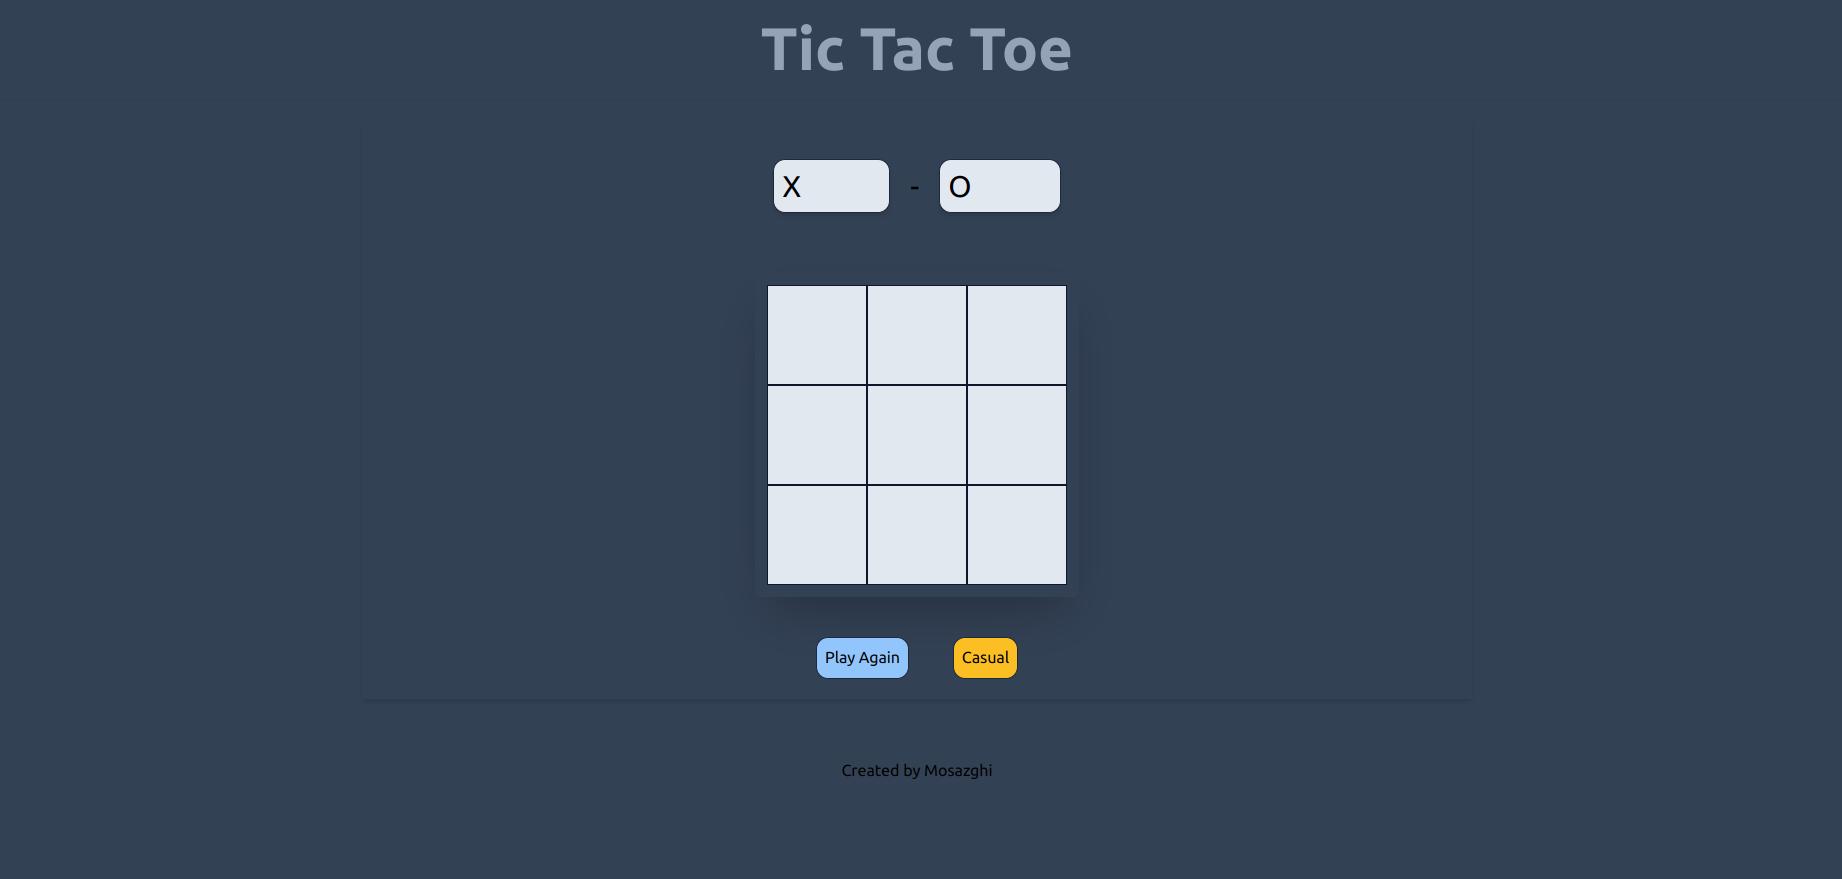
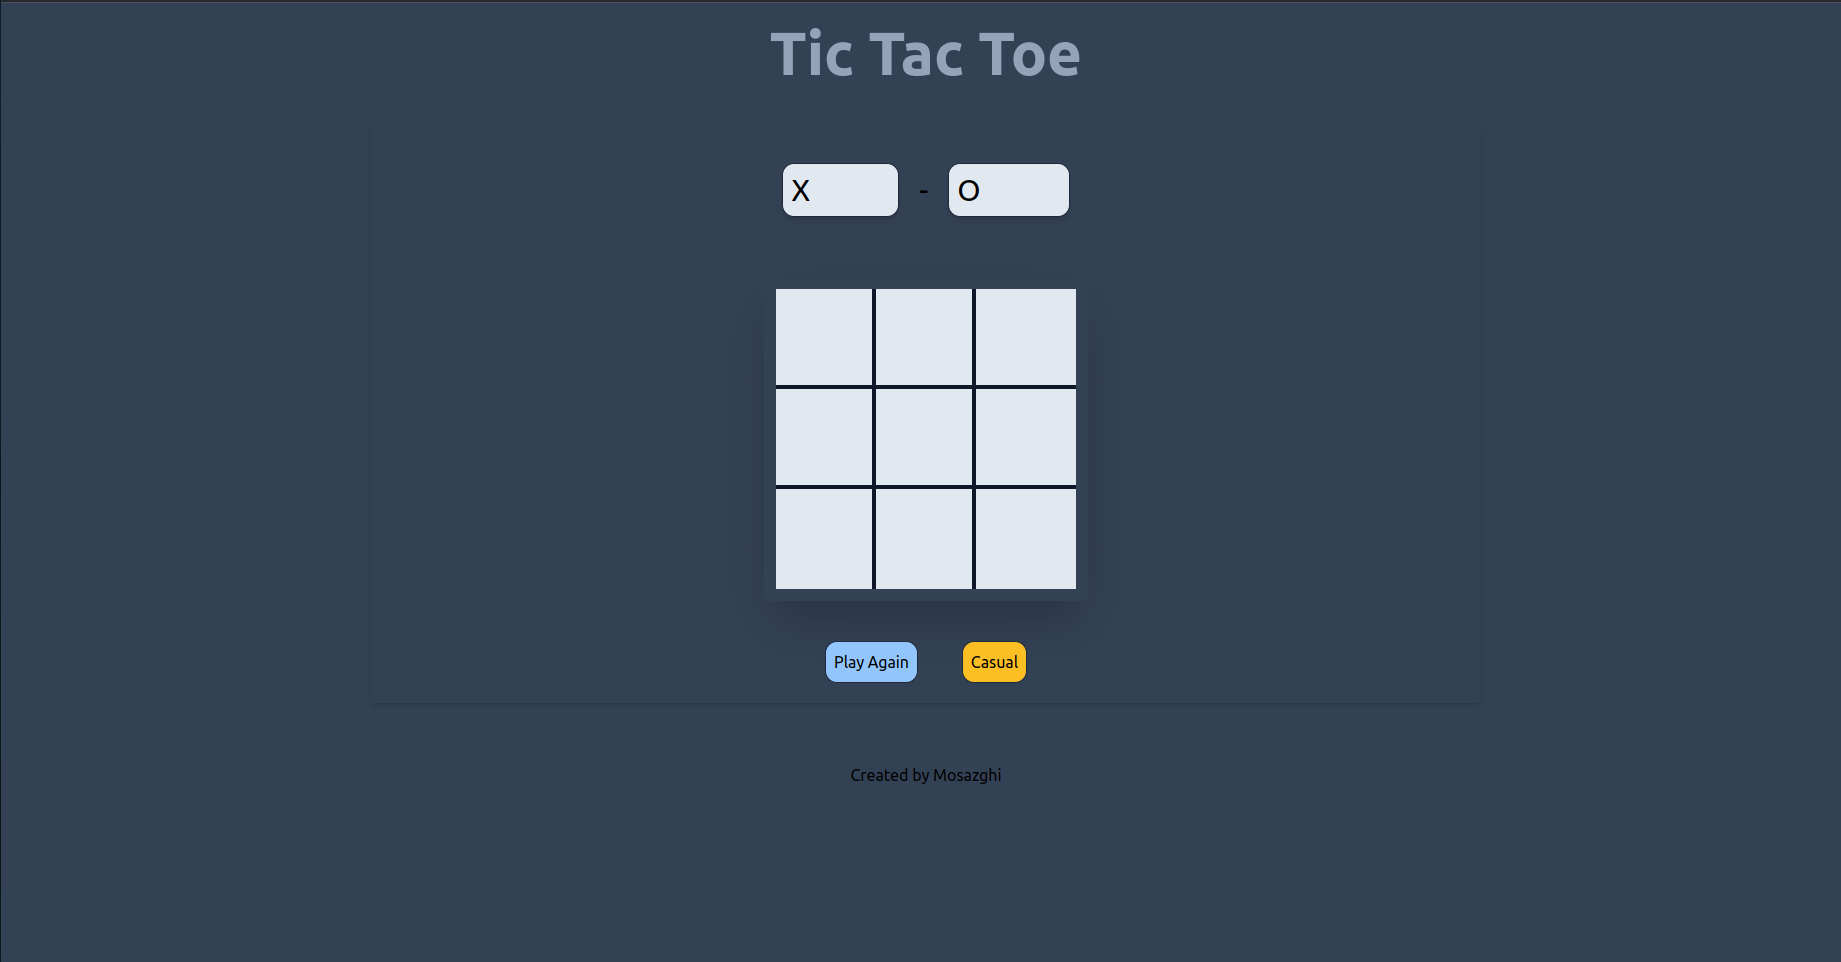
fix border on each cell

diff --git a/src/index.js b/src/index.js
@@ -59,20 +59,18 @@ const DisplayController = (() => {
     cell.innerText = GameBoard.getBoard()[index];
     cell.classList.add(
       "cell",
-      "text-6xl",
+      "text-8xl",
       `${cell.innerText === "X" ? "text-green-300" : "text-blue-300"}`,
       "flex",
       "justify-center",
+      "border-r-4",
+      "border-b-4",
       "items-center",
       "transition-all",
-      "duration-1000",
-      "border",
       "font-bold",
       "border-slate-900",
       "hover:bg-slate-300",
       "bg-slate-200",
-      "h-full",
-      "w-full",
       "cursor-pointer"
     );
 

diff --git a/index.html b/index.html
@@ -5,6 +5,7 @@
     <meta name="viewport" content="width=device-width, initial-scale=1.0" />
     <title>Tic Tac Toe</title>
     <script src="https://cdn.tailwindcss.com"></script>
+    <link rel="stylesheet" href="src/style.css" />
     <script>
       tailwind.config = {
         theme: {

diff --git a/tailwind.config.js b/tailwind.config.js
@@ -1,0 +1,7 @@
+module.exports = {
+  content: ["./src/**/*.{html,js}"],
+  theme: {
+    extend: {},
+  },
+  plugins: [],
+};

diff --git a/src/style.css b/src/style.css
@@ -1,0 +1,7 @@
+.cell:nth-child(3n) {
+  border-right: none;
+}
+
+.cell:nth-child(6) ~ .cell {
+  border-bottom: none;
+}
